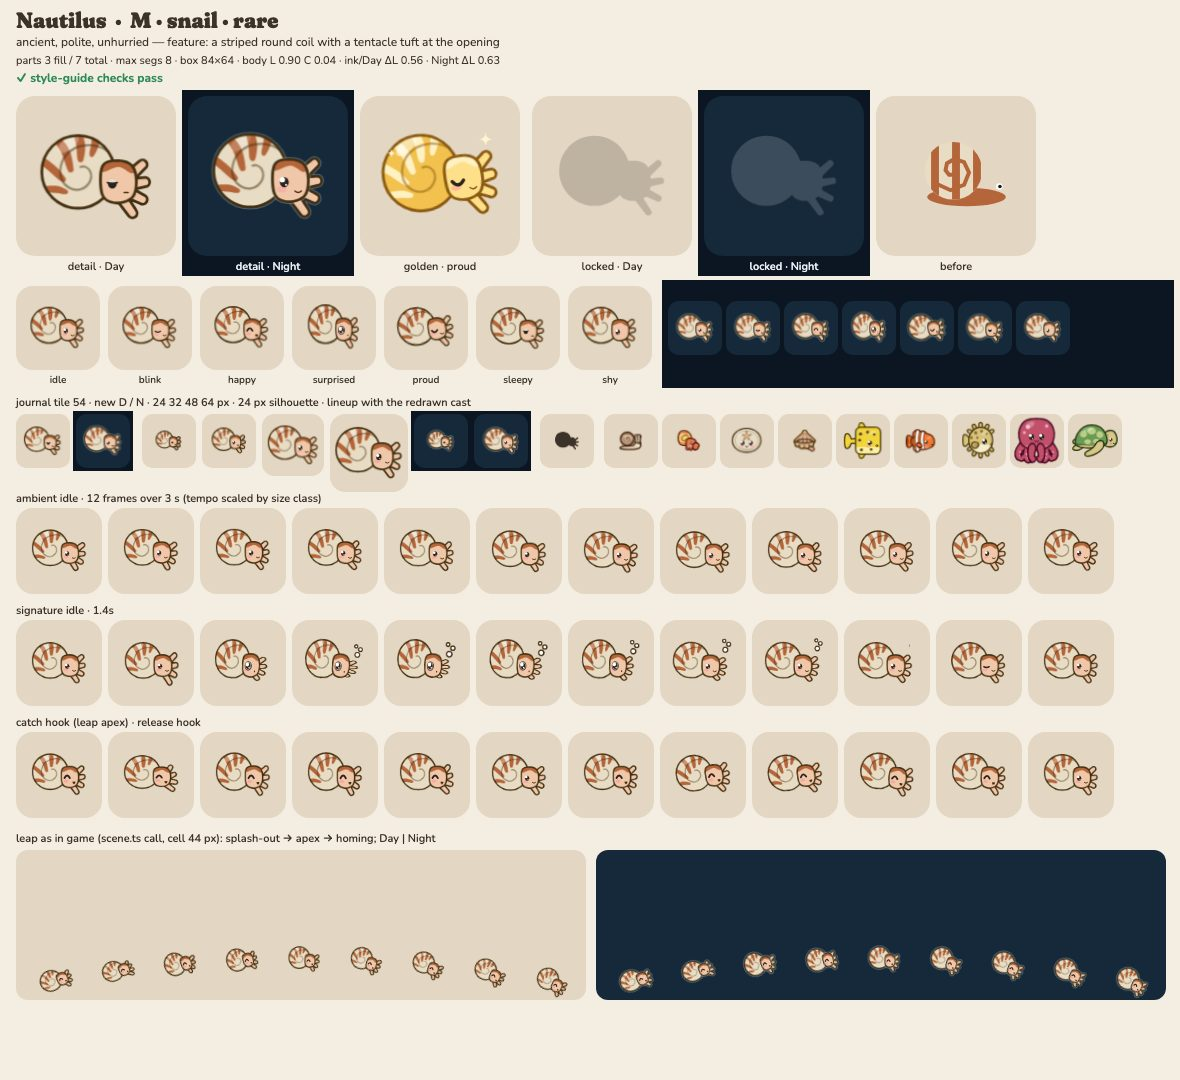
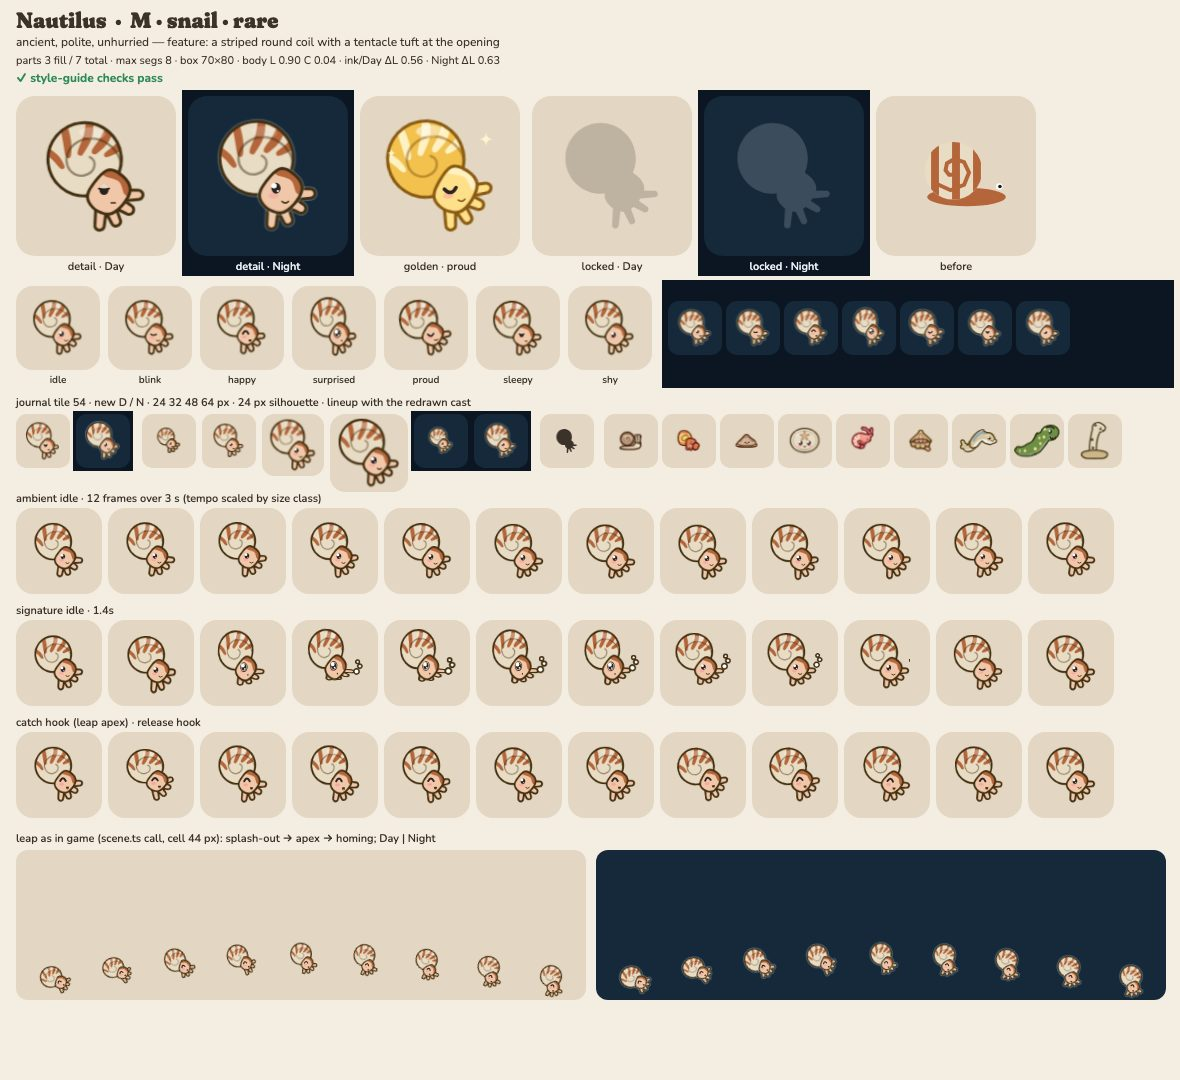
art: nautilus hangs nose-down 40 degrees, clears the cuttlefish (ADR 0011)
cuttle/nautilus IoU 0.877 -> below top list; new closest hermit 0.70, combjelly 0.68 (cross-class), cockle 0.66 (same class). Fish all <= 0.65.

diff --git a/src/render/art/species/nautilus.ts b/src/render/art/species/nautilus.ts
@@ -6,7 +6,7 @@
  * with a little bubble trail, then drifts back and settles with a polite blink.
  * Groups (back to front): tentacles, shell, body (hood and head; the face rides on it), bubbles (prop).
  */
-import { blob, capsule, circle, defineArt, ellipse, join, tube } from '../kit.ts';
+import { blob, capsule, circle, defineArt, ellipse, join, tube, xform } from '../kit.ts';
 
 const shell = circle(-12, -2, 28);
 // tiger stripes on the back of the coil, fading out before the opening (R18 `bands`, hand placed)
@@ -64,7 +64,10 @@ const tentacles = join(
   capsule(27, 14, 3.4, 39, 20, 2.6),
   capsule(22, 18, 3.2, 31, 31, 2.6),
 );
-const bubbles = join(circle(38, -16, 3.4), circle(44, -26, 2.4), circle(36, -32, 1.8));
+// the whole nautilus hangs nose-down by 40°, the way a real one hovers with its opening forward
+// and down. It also keeps its silhouette apart from the cuttlefish, hermit crab and turtle (R12).
+const R = (d: string) => xform(d, { rot: 40, sx: 0.96, sy: 0.96 });
+const bubbles = join(circle(34, 14, 3.4), circle(40, 4, 2.4), circle(36, -4, 1.8));
 
 export default defineArt({
   id: 'nautilus',
@@ -74,34 +77,37 @@ export default defineArt({
   personality: ['ancient', 'polite', 'unhurried'],
   palette: { body: '#E9DCC4', accent: '#B5653A', belly: '#F0C7A8' },
   groups: [
-    { id: 'tentacles', pivot: [26, 8], parts: [{ d: tentacles, role: 'belly' }] },
+    { id: 'tentacles', pivot: [14, 22], parts: [{ d: R(tentacles), role: 'belly' }] },
     {
       id: 'shell',
-      pivot: [-12, -2],
+      pivot: [-8, -9],
       parts: [
-        { d: shell, role: 'body' },
-        { d: stripes, role: 'accent', kind: 'pattern' },
-        { d: whorl, role: 'ink', kind: 'line', w: 1.8, alpha: 0.5 },
+        { d: R(shell), role: 'body' },
+        { d: R(stripes), role: 'accent', kind: 'pattern' },
+        { d: R(whorl), role: 'ink', kind: 'line', w: 1.8, alpha: 0.5 },
       ],
     },
     {
       id: 'body',
-      pivot: [12, 4],
+      pivot: [6, 10],
       parts: [
-        { d: head, role: 'belly' },
-        { d: hood, role: 'accent', kind: 'pattern' },
+        { d: R(head), role: 'belly' },
+        { d: R(hood), role: 'accent', kind: 'pattern' },
       ],
     },
-    { id: 'bubbles', pivot: [38, -20], prop: true, parts: [{ d: bubbles, role: 'white' }] },
+    { id: 'bubbles', pivot: [36, 6], prop: true, parts: [{ d: bubbles, role: 'white' }] },
   ],
   shineOn: 'shell',
-  shine: ellipse(-20, -24, 10, 4.4, -35),
+  shine: ellipse(-2, -29, 10, 4.4, 5),
   face: {
-    eyes: [[15, 7]],
+    eyes: [[7, 14]],
     eye: 8.2,
-    zone: [4, -14, 36, 36],
-    mouth: { at: [26, 14], w: 5, shape: 'smile' },
+    zone: [-6, -6, 36, 36],
+    mouth: { at: [14, 24], w: 5, shape: 'smile' },
     sweet: true,
+  },
+  deviations: {
+    R7: 'the body hangs nose-down by 40°, so the eye on the head at the shell opening measures 41 % back along the tilted box',
   },
   idle: {
     ambient: [
@@ -120,6 +126,16 @@ export default defineArt({
             [0.1, 1.5],
             [0.24, -7],
             [0.7, -5],
+            [1, 0],
+          ],
+        },
+        {
+          p: 'ty',
+          k: [
+            [0, 0],
+            [0.1, 1],
+            [0.24, -5],
+            [0.7, -3.5],
             [1, 0],
           ],
         },

diff --git a/docs/art/notes/fleet-2.md b/docs/art/notes/fleet-2.md
@@ -198,3 +198,16 @@ Worst same-class pair overall among mine: clownfish/sunfish 0.684 and limpet/nau
   making it part of the silhouette.
 - Pectoral fins drawn as outlined ellipses next to a low-set profile eye read as a second mouth at
   54 px (puffer, boxfish); worth a line in the fleet brief's gotchas.
+
+## nautilus, round 4 (after the fleet merge)
+- With 38 species on main, the old nautilus (round coil + forward tentacle tuft, 84×64) scored
+  IoU 0.877 against the cuttlefish (oval mantle + arm tuft, 84×56). Grid search over shell size,
+  head height and tentacle fans was stuck between neighbours: wider/flatter hit the cuttle (≥ 0.77),
+  taller hit the hermit crab (0.78–0.81), head-high hit the turtle (0.78–0.83).
+- Fix: the whole nautilus now hangs **nose-down by 40°** (a single `xform` on every part, ×0.96), the
+  way a real nautilus hovers with its opening forward and down. Coil up and back, hooded head and
+  tentacles below-front. Face anchors, pivots, shine and bubbles were re-placed by hand; the jet now
+  goes up-and-back (tx −7, ty −5). R7 deviation: the eye sits 41 % back along the tilted box.
+- New closest pairs: hermit 0.70, combjelly 0.68 (cross-class, limit 0.80), cockle 0.66 (same class,
+  limit 0.70); cuttle dropped out of the top list. Every fish is ≤ 0.65 against it.
+- Self-grade stays B+: it reads as a little nautilus peering down, and the coil stripes still lead.
